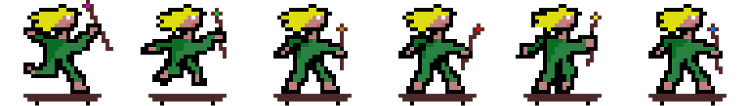
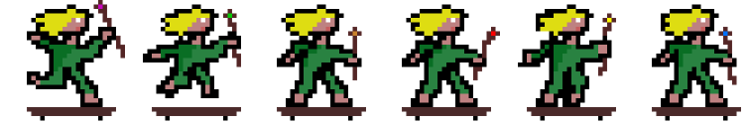
Fire

diff --git a/Humain.cpp b/Humain.cpp
@@ -10,17 +10,17 @@ Humain::Humain() : ACharacter()
   this->_animate = new AnimatedSprite(sf::seconds(0.1), true, false);
   (*this->_animations)[RIGHT].setSpriteSheet(*this->_texture);
   //this->setFrames(RIGHT, 70, 90, 0, 6, 0);
-  this->setFrames(RIGHT, 125, 106, 0, 6, 0);
+  this->setFrames(RIGHT, 125, 125, 0, 6, 0);
   (*this->_animations)[UP].setSpriteSheet(*this->_texture);
 
-  this->setFrames(UP, 125, 106, 0, 6, 0);
+  this->setFrames(UP, 125, 125, 0, 6, 0);
 
   //this->setFrames(UP, 70, 90, 0, 6, 0);
   this->_x = 0;
   this->_y = 0;
-  this->_speed = 700;
+  this->_speed = 900;
   this->_strengh = false;
-  this->_jumpHeight = 300;
+  this->_jumpHeight = 250;
   this->_current = &((*this->_animations)[RIGHT]);
   this->_animate->setPosition(sf::Vector2f(screenDimensions));
   this->_animate->play(*this->_current);
